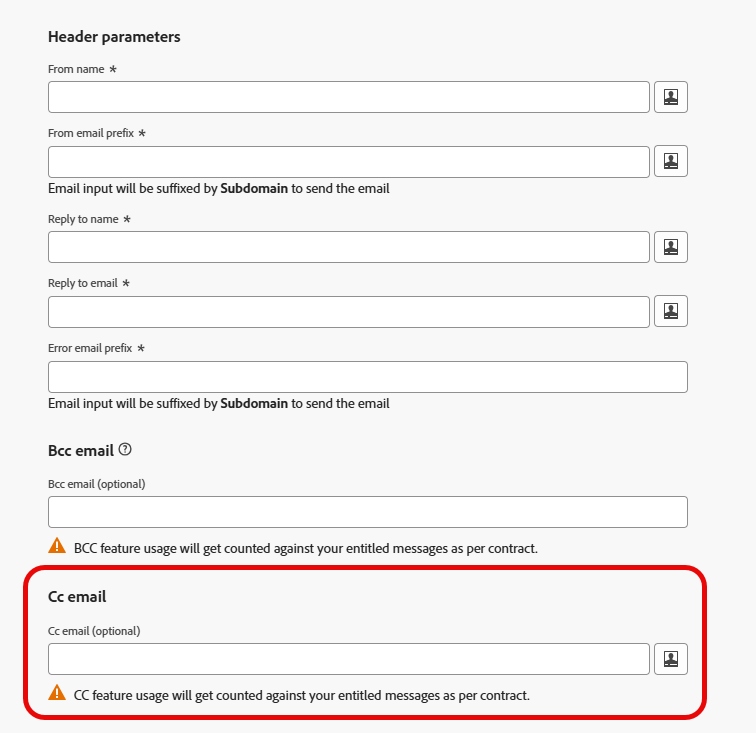
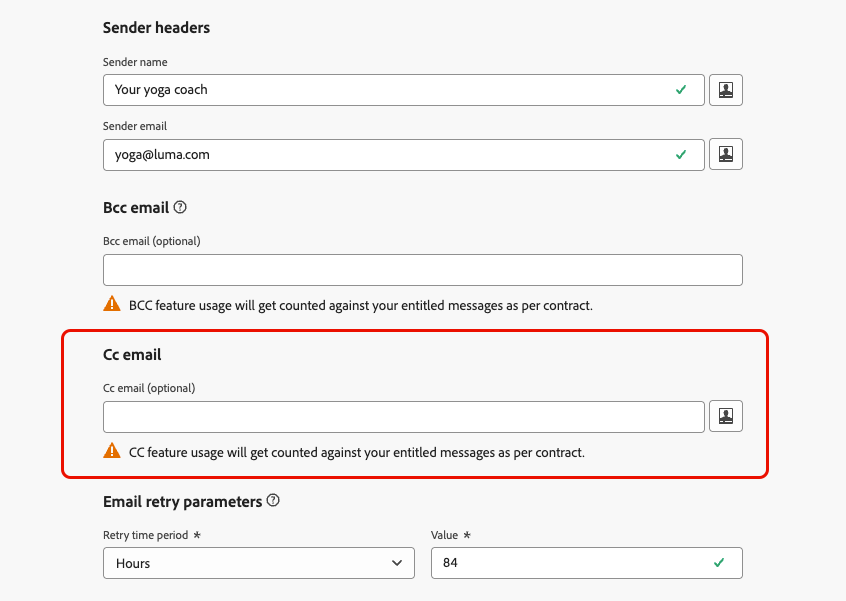
Cc field screen update

diff --git a/help/using/rn/release-notes.md b/help/using/rn/release-notes.md
@@ -382,7 +382,7 @@ This keeps recurring campaigns focused on net-new audiences (new sign-ups, newly
 <p>You can now configure an optional CC (carbon copy) field in your email channel settings. Unlike BCC, CC recipients are visible to the primary recipient, enabling transparent communication and clearer ownership.</p>
 <p>This allows you to automatically copy the right stakeholder on each message—such as a relationship manager or account owner—while ensuring the customer knows who to contact for follow-up.</p>
 <p>The CC field supports personalization, so a single configuration can dynamically route copies based on profile data, making it scalable across multiple use cases without additional setup.</p>
-<!--<p><img src="assets/do-not-localize/forms.gif"></p>-->
+<p><img src="../configuration/assets/email-config-cc.png"></p>
 <p>For more information, refer to the <a href="../configuration/cc-email-field.md">detailed documentation</a>.</p>
 </td>
 </tr>
